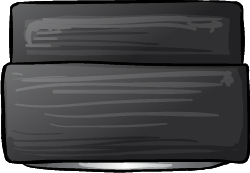
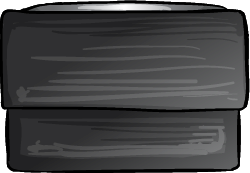
Added long drawer

diff --git a/src/main/java/no/uib/inf112/map/levels/Level1.java b/src/main/java/no/uib/inf112/map/levels/Level1.java
@@ -16,6 +16,7 @@ import no.uib.inf112.player.Player;
 import no.uib.inf112.terrain.floor.WoodFloor;
 import no.uib.inf112.terrain.furniture.BeigeBigBed;
 import no.uib.inf112.terrain.furniture.BeigeCouch;
+import no.uib.inf112.terrain.furniture.DarkLongDrawer;
 import no.uib.inf112.terrain.furniture.DarkSmallDrawer;
 import no.uib.inf112.terrain.furniture.DarkWoodenTable;
 import no.uib.inf112.terrain.furniture.DarkWoodenTableSquare;
@@ -42,6 +43,8 @@ public class Level1 implements ILevel {
     private static final int BIGBEDHEIGHT = Config.getInt("bigBedHeight");
     private static final int SMALLDRAWERWIDTH = Config.getInt("smallDrawerWidth");
     private static final int SMALLDRAWERHEIGHT = Config.getInt("smallDrawerHeight");
+    private static final int LONGDRAWERWIDTH = Config.getInt("longDrawerWidth");
+    private static final int LONGDRAWERHEIGHT = Config.getInt("longDrawerHeight");
     
     // Water
     private static final int WATER_HEIGHT = Config.getInt("waterHeight");
@@ -193,10 +196,13 @@ public class Level1 implements ILevel {
         // /////////
 
         //furniture
-        this.staticObjects.add(new BeigeBigBed(new Rectangle2D.Double(1695, 165, BIGBEDWIDTH, BIGBEDHEIGHT)));
-        this.staticObjects.add(new DarkSmallDrawer(new Rectangle2D.Double(1695, 15, SMALLDRAWERWIDTH, SMALLDRAWERHEIGHT)));
-
-
+        this.staticObjects.add(new BeigeBigBed( // Big bed
+                new Rectangle2D.Double(1695, 165, BIGBEDWIDTH, BIGBEDHEIGHT)));
+        this.staticObjects.add(new DarkSmallDrawer( // Small drawer
+                new Rectangle2D.Double(1695, 15, SMALLDRAWERWIDTH, SMALLDRAWERHEIGHT)));
+        this.staticObjects.add(new DarkLongDrawer( // long drawer
+                new Rectangle2D.Double(1950d, 90, LONGDRAWERWIDTH, LONGDRAWERHEIGHT)));
+        
         // /////////
         // house 3
         this.floors.add(new WoodFloor(new Rectangle2D.Double(410, 705, 350, (double)1170 - 700)));

diff --git a/src/main/java/no/uib/inf112/terrain/furniture/DarkLongDrawer.java b/src/main/java/no/uib/inf112/terrain/furniture/DarkLongDrawer.java
@@ -1,0 +1,31 @@
+package no.uib.inf112.terrain.furniture;
+
+import java.awt.geom.Rectangle2D;
+import java.awt.geom.Rectangle2D.Double;
+
+import no.uib.inf112.enums.StaticObjectType;
+import no.uib.inf112.interfaces.IStaticDrawableObject;
+
+public class DarkLongDrawer implements IStaticDrawableObject {
+
+    private Rectangle2D.Double bounds;
+    
+    public DarkLongDrawer(Rectangle2D.Double bounds) {
+        this.bounds = bounds;
+    }
+
+    @Override
+    public Double getBounds() {
+        return this.bounds;
+    }
+
+    @Override
+    public boolean isWall() {
+        return false;
+    }
+
+    @Override
+    public StaticObjectType getType() {
+        return StaticObjectType.DARK_DRAWER_LONG;
+    }
+}

diff --git a/src/main/java/no/uib/inf112/utility/ImageHandler.java b/src/main/java/no/uib/inf112/utility/ImageHandler.java
@@ -236,6 +236,9 @@ public class ImageHandler {
         this.staticObjects.put(StaticObjectType.DARK_DRAWER_SMALL,
                 ImageReader.resizeExact(ImageReader.fetchImage("/no/uib/inf112/furniture/darksmalldrawer.png"),
                         Config.getInt("smallDrawerWidth"), Config.getInt("smallDrawerHeight")));
+         this.staticObjects.put(StaticObjectType.DARK_DRAWER_LONG,
+                ImageReader.resizeExact(ImageReader.fetchImage("/no/uib/inf112/furniture/darklongdrawer.png"),
+                        Config.getInt("longDrawerWidth"), Config.getInt("longDrawerHeight")));
     }
 
     // / /////////// START ENEMY LOGIC //////////////

diff --git a/src/main/java/no/uib/inf112/enums/StaticObjectType.java b/src/main/java/no/uib/inf112/enums/StaticObjectType.java
@@ -12,6 +12,7 @@ public enum StaticObjectType {
     BEIGE_COUCH_DOWN,
     BEIGE_BIG_BED,
     DARK_DRAWER_SMALL,
+    DARK_DRAWER_LONG,
 
     //water
     WATER
